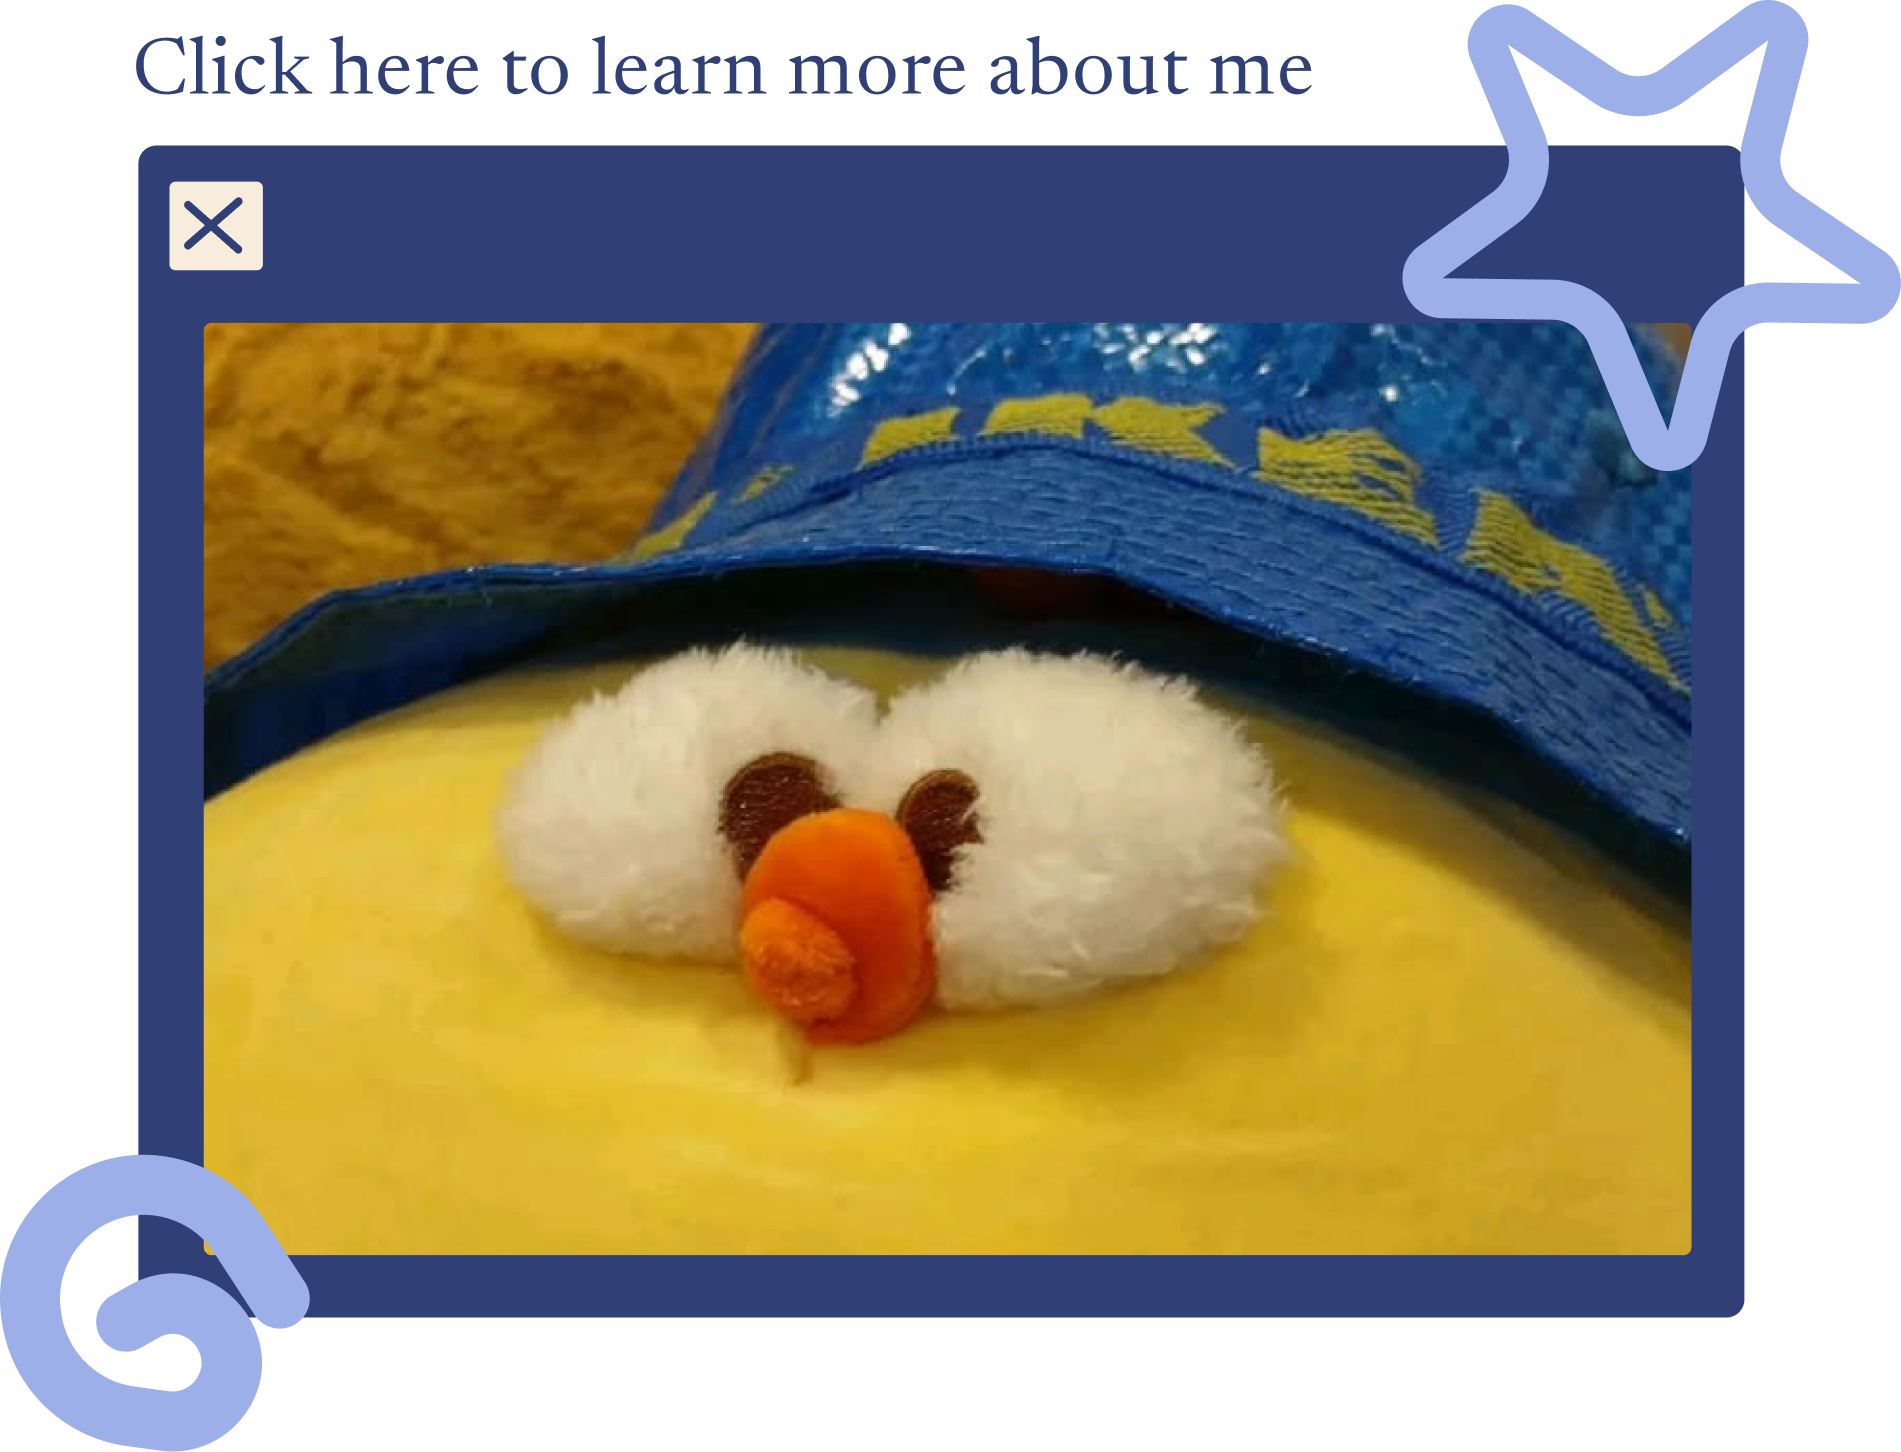
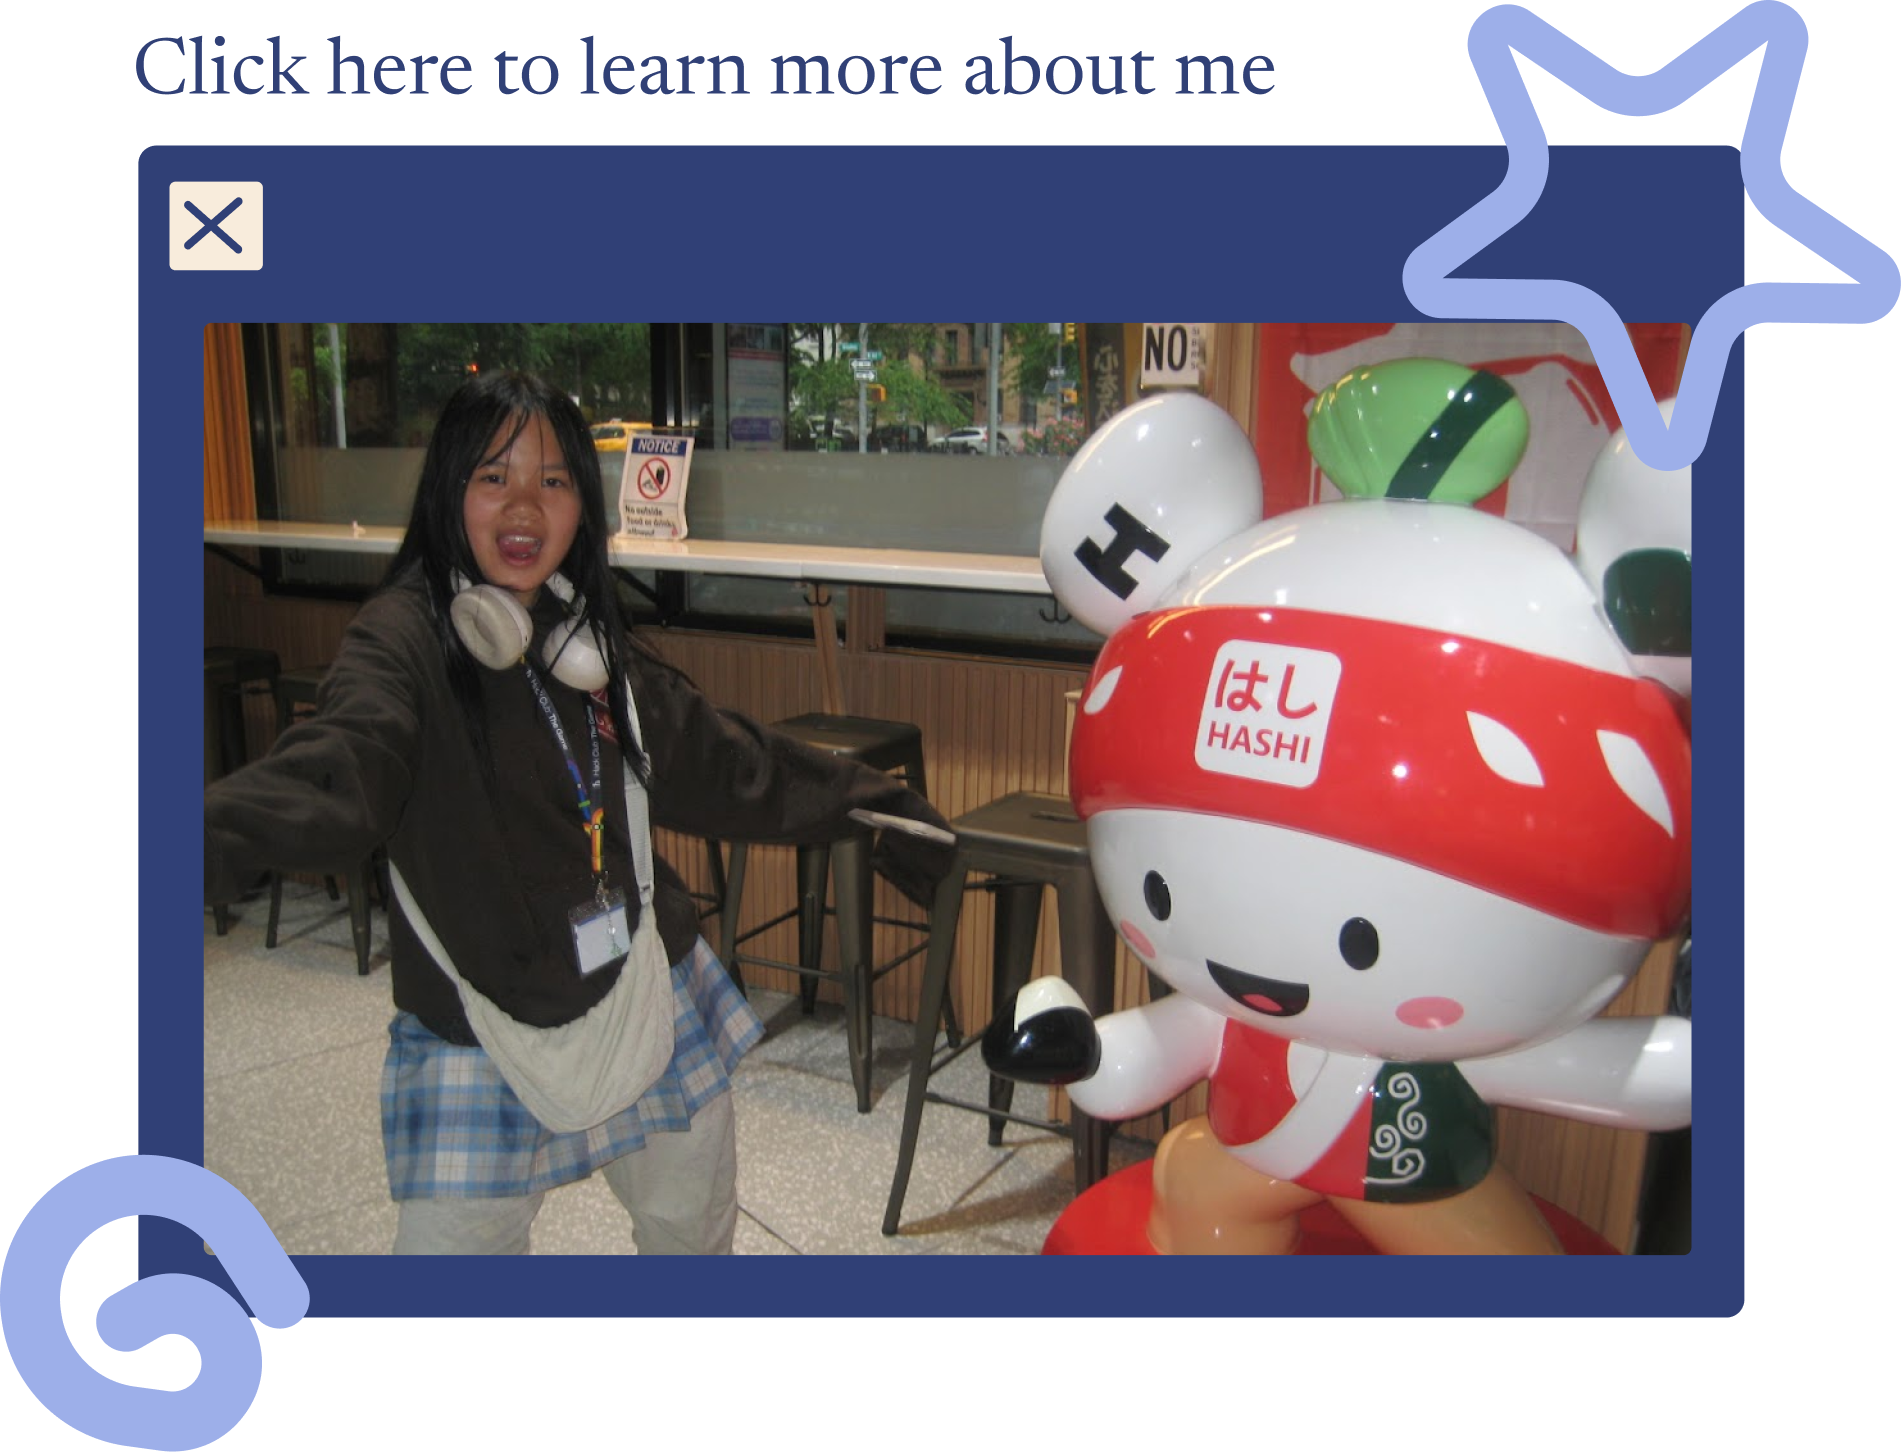
changed placeholders + projects infra

diff --git a/app/routes/projects.tsx b/app/routes/projects.tsx
@@ -1,5 +1,85 @@
 import { useState } from 'react'
 
+const projArray = [
+  {
+    title: "ALD1FLIX",
+    description: "A Kpop database for the KPOP group Alpha Drive One containg information on the group, members, discography and content ",
+    ghurl: "https://github.com/Er1n-jpg/Ald1flix",
+    demourl:"https://ald1flix.vercel.app/",
+    Date: 2026/0o6/10,
+    img:"",
+    index:"1",
+  },{
+    title: "Alien Stage Clicker Game",
+    description: "My very first godot game! It's a clicker game made based on the animated series alien stage, you gain currency by clicking and can spend it on accessories at the shop! All the art is drawn by me!",
+    ghurl:"https://github.com/Er1n-jpg/Alnst-clicker-game",
+    demourl: "https://koiyomon.itch.io/click-that-ivan",
+    Date: 2025/12/30,
+    img: "",
+    index: "2",
+  }, {
+    title: "Mush-Root",
+    description: "A Database of past tests where people can view and upload them, gamei-fying it for people with ADHD to make it simmilar to youtube with features like merge games, pomodoro timers, a mini subway surfers sreen and line following by mouse",
+    ghurl: "https://github.com/sophiayduan/mushroot",
+    demourl: "https://github.com/sophiayduan/mushroot",
+    Date: 2026/0o5/15,
+    img: "",
+    index: "3",
+  }, {
+    title: "Blink too long (your grades are gone)",
+    description: "An OpenCV application which detects if your eyes are open or closed, if they're closed for too long it sends an email to your teacher through the javamail API",
+    ghurl: "",
+    demourl: "",
+    Date: 2026/0o2/18,
+    img: "",
+    index: "4",
+  }, {
+    title: "Shrimp Fried Rice",
+    description: "Top 5 project at a hackathon called campfire flagship, you play as a shrimp fighting off evil vegetables to pay off your debt, the game is a combination between a visual novel and combat game. INDENDED TO BE PLAYED WITH A CUSTOM CONTROLLER!!",
+    ghurl: "https://github.com/gbtsui/shrimp-fried-rice",
+    demourl: "",
+    Date: 2026/0o2/22,
+    img: "",
+    index: "5"
+  }, {
+    title: "This Website",
+    description: "A remake of my old personal website, using proper figma conventions, react and tailwind css",
+    ghurl: "https://github.com/Er1n-jpg/Personal-website",
+    demourl: "https://koiyomon.vercel.app",
+    date: 2026/0o7/20,
+    img: "",
+    index: "6"
+  }
+]
+
+function ProjectItem({title, description, ghurl, demourl, Date, img, index}: {
+  title: string,
+  description: string,
+  ghurl: string,
+  demourl: string,
+  Date: Date,
+  img: string,
+  index: string
+}) {
+  return (
+    <div className="relative bg-[#304076] w-180 flex flex-row h-80 items-center justify-center">
+      <a href={demourl} className="absolute inset-0 z-0" aria-label={title}></a>
+
+      <img src={img} className="rounded-lg h-70 relative z-10 pointer-events-none" />
+
+      <div className="flex text-left font-newsreader text-[#304076] relative z-10 justify-between">
+        <div className = "flex flex-col gap-2">
+          <h1 className="text-3xl">{title}</h1>
+          <p className="text-2xl -mt-10">{description}</p>
+        </div>
+        <a href={ghurl} className="relative z-20" onClick={(e) => e.stopPropagation()}>
+          <img className = "h-20 w-20" src = "./minigh"></img>
+        </a>
+      </div>
+    </div>
+  );
+}
+
 
 function App() {
   const [count, setCount] = useState(0)
@@ -9,11 +89,21 @@ function App() {
 <div className="bg-[#F8ECDC] w-full flex flex-col top-0">
   <div className = "items-center">
     <div className = "flex flex-col justify-start text-left text-[#304076]">
-      <div className = "flex flex-row gap-6">
-      <p className = "font-kapakana text-9xl "> Projects</p>
-      <img src = "/projline.png" className = "h-1 mt-20"></img>
+      <div className = "flex flex-row gap-6 mt-20 ml-10">
+      <p className = "font-kapakana text-[14rem] "> Projects</p>
+      <img src = "/projline.png" className = "h-0.5 w-80 mt-40"></img>
       </div>
-      <p className = "font-newsreader text-xl"></p>
+      <div className = "w-100 -mt-30 ml-70">
+      <p className = "font-newsreader text-xl "> Disappointment or not, I love making (and breaking) things!</p>
+      </div>
+
+      <div className = "">
+
+      </div>
+
+      <div className = "">
+        
+      </div>
     </div>
   </div>
 </div>

diff --git a/app/routes/home.tsx b/app/routes/home.tsx
@@ -73,7 +73,7 @@ function App() {
       <div className = "flex items-center justify-between w-full mt-5 mb-20">
 
         <a href = "/blog" className = "flex flex-col justify-center items-center ml-50 text-[#304076] transition-transform duration-300 hover:scale-105">
-          <img src = "/chiiiken.png" className = "w-120 h-90"></img>
+          <img src = "/boog.png" className = "w-120 h-90"></img>
           <h1 className = "font-kapakana text-8xl">(B)logs</h1>
           <p className = "font-newsreader text-2xl">My amazing writing skills</p>
         </a>
@@ -81,10 +81,14 @@ function App() {
 
       
         <a href = "/projects" className = "flex flex-col justify-center items-center mr-50 text-[#304076] transition-transform duration-300 hover:scale-105">
-          <img src = "/chiiiken.png" className = "w-120 h-90"></img>
+          <img src = "/proj.png" className = "w-120 h-90"></img>
           <h1 className = "font-kapakana text-8xl">Projects</h1>
           <p className = "font-newsreader text-2xl">My creations :)</p>
         </a>
+      </div>
+
+      <div className = "flex text-center justify-center font-newsreader text-[#304076] mb-10 text-xl">
+        <p>Made with ♡ by yours truly</p>
       </div>
     </div>
   </div>

diff --git a/app/routes/about.tsx b/app/routes/about.tsx
@@ -15,10 +15,12 @@ function App() {
     </div>
 
     <div className = "flex flex-row justify-between ml-10 mr-10 pt-10 text-[#304076]"> 
+      <div>
       <p className = "font-newsreader text-3xl mt-10">
         ooooh I have a life?
       </p>
       <img src = "/lineee1.png" className = "w-90 h-0.5 mt-14 -ml-90"/>
+      </div>
       <p className = "font-kapakana text-9xl">
         Stuff I Do
       </p>
@@ -51,7 +53,7 @@ function App() {
 
     </div>
     
-    <img src = "/polaroidlove.png" className = "w-100 h-120 mr-40 mt-20"/>
+    <img src = "/polaroidlove.png" className = "w-120 h-160 mr-25 mt-20"/>
 
 
 

diff --git a/app/routes/blog.tsx b/app/routes/blog.tsx
@@ -14,8 +14,8 @@ const blogPost = [
     index: "2"
   },
   {
-    title: "Sasaengs are weird",
-    description: "I yap about weird fan behaviour in kpop communities",
+    title: "what is the secret to live",
+    description: "uhhh I got no clue about this one",
     url: "./unavailablee.tsx",
     index: "3"
   },
